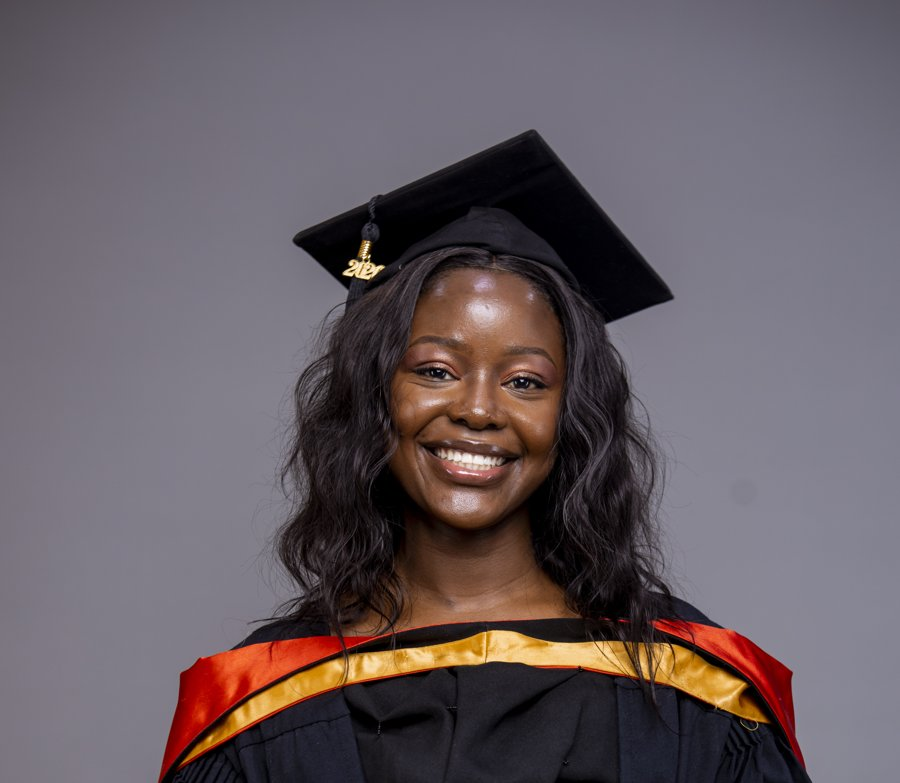
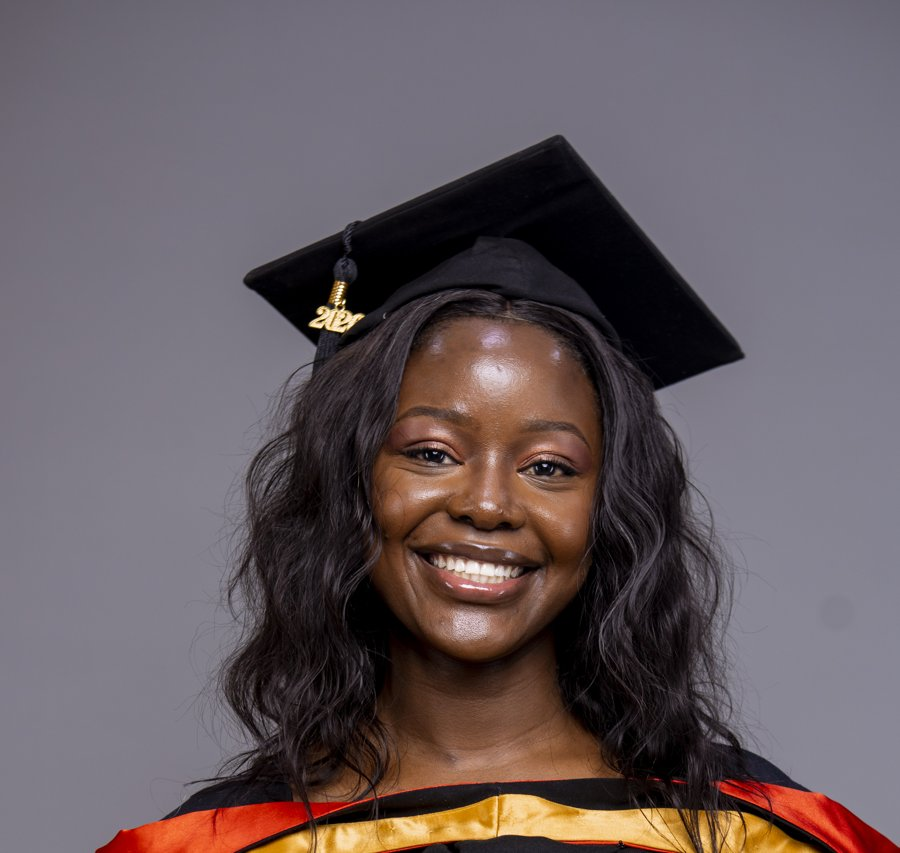
Add files via upload

diff --git a/index.html b/index.html
@@ -495,7 +495,7 @@
         <div class="face face-cover">
           <div class="cover-eyebrow">Save the date</div>
           <div class="photo-frame">
-            <img src="bella-cover.jpg" alt="Bella Ofwa graduation photo" style="object-position:center 18%;">
+            <img src="bella-cover.jpg" alt="Bella Ofwa graduation photo" style="object-position:center 30%;">
           </div>
           <div class="cover-script gold-text">she did it!</div>
           <div class="cover-name">Bella Ofwa</div>
